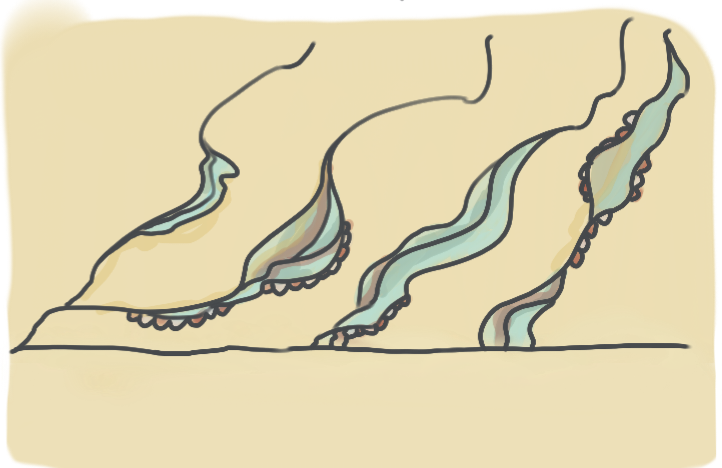
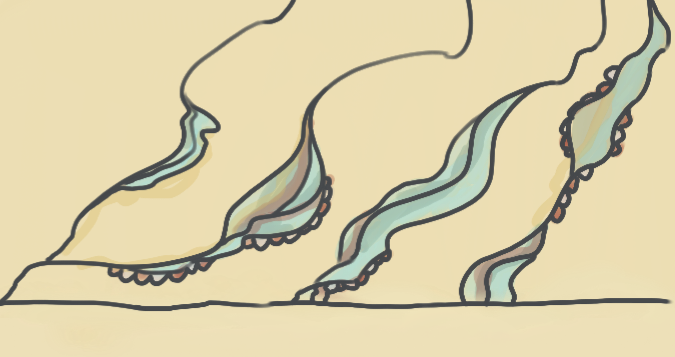
Mise en place d'un traitement du fond

Changed region(s): [[0.0, 0.0, 1.0, 1.0], [0.3733, 0.0924, 0.4356, 0.1541], [0.3422, 0.1541, 0.3733, 0.1849]]

diff --git a/gwendis-world/src/components/elementsScene/elementsDecor/registreElementsDecor.ts b/gwendis-world/src/components/elementsScene/elementsDecor/registreElementsDecor.ts
@@ -25,7 +25,6 @@ import { Gwendi } from "./personnages/Gwendi/Gwendi";
 import { Mimi } from "./personnages/Mimi";
 import { Mosieur } from "./personnages/Mosieur/Mosieur";
 import { Yves } from "./personnages/Yves";
-import { FondMaisonPrecheur } from "./fonds/FondMaisonPrecheur";
 import { TableBasse } from "./objets/Decorations/TableBasse";
 import { Cheminee } from "./objets/Decorations/Cheminee";
 import { Horloge } from "./objets/Decorations/Horloge";
@@ -33,16 +32,23 @@ import { BouleVoyante } from "./objets/Decorations/BouleVoyante";
 
 export const composants: Record<string, (x:number, y:number) => HTMLElement> = {
     gwendi: Gwendi,
+
+    // Elements constitution ciel, air, sol
     arbre: Arbre,
     nuage: Nuage,
     particuleAir: ParticuleAir,
+
+    // Batiments
     poste: Poste,
     maisonGwendi: MaisonGwendi,
     maisonPrecheur: MaisonPrecheur,
-    fondMaisonPrecheur: FondMaisonPrecheur,
+
+    // Reactions
     pointExclamation: PointExclamation,
     pointsuspension: PointSuspension,
     pointInterrogation: PointInterrogation,
+
+    // Objets
     boiteAuxLettres: BoiteAuxLettres,
     lanterne: Lanterne,
     lanternesDecorees: LanternesDecorees,
@@ -57,6 +63,8 @@ export const composants: Record<string, (x:number, y:number) => HTMLElement> = {
     bouleVoyante: BouleVoyante,
     pomme: Pomme,
     verre: Verre,
+
+    // Personnages
     giselle: Giselle,
     mimi: Mimi,
     mosieur: Mosieur,

diff --git a/gwendis-world/src/components/elementsScene/Decor/Fond/Fond.ts b/gwendis-world/src/components/elementsScene/Decor/Fond/Fond.ts
@@ -1,0 +1,27 @@
+import type { NomFond } from '../../../../types';
+import { indexerUrlsParNom } from '../../../../utils/indexerURLsParNom';
+import './Fond.css'
+
+const URL_FOND_PAR_NOM: Record<string, string> = indexerUrlsParNom(
+    import.meta.glob<string>('/src/assets/images/fonds/*.{png, jpg, jpeg, webp}', {
+        eager: true,
+        import: 'default',
+    })
+)
+
+export function fondExiste(nom: NomFond): boolean {
+    return nom in URL_FOND_PAR_NOM
+}
+
+export function Fond(nom: NomFond): HTMLDivElement {
+    const fond: HTMLDivElement = document.createElement('div')
+    fond.className = "fond"
+    if (!fondExiste(nom)) {
+        console.warn(`Fond introuvable olalaaah: "${nom}"`)
+        return fond
+    }
+
+    fond.style.backgroundImage = `url("${URL_FOND_PAR_NOM[nom]}")`
+    return fond
+
+}

diff --git a/gwendis-world/src/components/elementsScene/Decor/Decor.ts b/gwendis-world/src/components/elementsScene/Decor/Decor.ts
@@ -3,7 +3,8 @@ import { composants } from '../elementsDecor/registreElementsDecor'
 import { Sol } from './Sol/Sol'
 import { Ciel } from './Ciel/Ciel'
 import { Air } from './Air/Air'
-import type { Densite, ElementDecor } from '../../../types'
+import { Fond } from './Fond/Fond'
+import type { Densite, ElementDecor, NomFond } from '../../../types'
 import { Gazon } from './Gazon/Gazon'
 
 export function Decor(
@@ -11,10 +12,16 @@ export function Decor(
   densiteSol: Densite,
   densiteHerbe: Densite,
   densiteNuage: Densite,
-  densiteAir: Densite
+  densiteAir: Densite,
+  fond?: NomFond
 ): HTMLDivElement {
   const decor = document.createElement('div')
   decor.className = 'decor'
+
+  if (fond !== undefined) {
+    decor.append(Fond(fond))
+  }
+
   decor.append(
     Sol(densiteSol),
     Ciel(densiteNuage),

diff --git a/gwendis-world/src/utils/indexerURLsParNom.ts b/gwendis-world/src/utils/indexerURLsParNom.ts
@@ -1,0 +1,14 @@
+/** Extrait le nom d'un fichier sans son extension : "/src/.../foret.png" donne "foret". */
+export function extraireNomFichier(chemin: string): string {
+  const nomAvecExtension: string = chemin.split('/').pop() ?? ''
+  return nomAvecExtension.replace(/\.[^.]+$/, '')
+}
+
+/** Transforme un objet { chemin: url } en objet { nomDuFichier: url }. */
+export function indexerUrlsParNom(urlParChemin: Record<string, string>): Record<string, string> {
+  return Object.fromEntries(
+    Object.entries(urlParChemin).map(
+      ([chemin, url]: [string, string]): [string, string] => [extraireNomFichier(chemin), url]
+    )
+  )
+}

diff --git a/gwendis-world/src/components/elementsScene/Scene/Scene.ts b/gwendis-world/src/components/elementsScene/Scene/Scene.ts
@@ -11,6 +11,6 @@ export function Scene(
   scene.className = 'scene'
 
   const dialogue: Dialogue = new Dialogue(donneesScene.dialogue, donneesScene.identifiantPremiereReplique, allerALaScene)
-  scene.append(Decor(donneesScene.elements, donneesScene.densiteSol, donneesScene.densiteHerbe, donneesScene.densiteNuage, donneesScene.densiteAir), dialogue.element)
+  scene.append(Decor(donneesScene.elements, donneesScene.densiteSol, donneesScene.densiteHerbe, donneesScene.densiteNuage, donneesScene.densiteAir, donneesScene.fond), dialogue.element)
   return scene
 }

diff --git a/gwendis-world/src/types.ts b/gwendis-world/src/types.ts
@@ -13,6 +13,7 @@ export type DonneesScene = {
     elements: ElementDecor[]
     dialogue: DonneesDialogue
     identifiantPremiereReplique: string
+    fond?: NomFond
     densiteSol: Densite
     densiteHerbe: Densite
     densiteNuage: Densite
@@ -22,3 +23,4 @@ export type Histoire = Record<string, DonneesScene>
 export type Densite = 'peu' | 'normal' | 'beaucoup'
 export type Sens = 'droite' | 'gauche' | 'face'
 export type LongueurLumieres = 'tresLong' | 'long' | 'moyen' | 'court' | 'tresCourt'
+export type NomFond = string

diff --git a/gwendis-world/src/components/elementsScene/Decor/Ciel/Ciel.ts b/gwendis-world/src/components/elementsScene/Decor/Ciel/Ciel.ts
@@ -3,9 +3,9 @@ import { Nuage } from '../../elementsDecor/objets/Nuage/Nuage'
 import type { Densite } from '../../../../types'
 
 const FACTEUR_DENSITE: Record<Densite, number> = {
-    peu: 1,
-    normal: 3,
-    beaucoup: 5
+    peu: 0,
+    normal: 2,
+    beaucoup: 4
 }
 
 export function Ciel(densite: Densite): HTMLDivElement {

diff --git a/gwendis-world/src/components/elementsScene/Decor/Fond/Fond.css b/gwendis-world/src/components/elementsScene/Decor/Fond/Fond.css
@@ -1,0 +1,7 @@
+.fond {
+    position: absolute;
+    inset: 0;
+    background-size: cover;
+    background-position: center bottom;
+    opacity: 0.7;
+}
